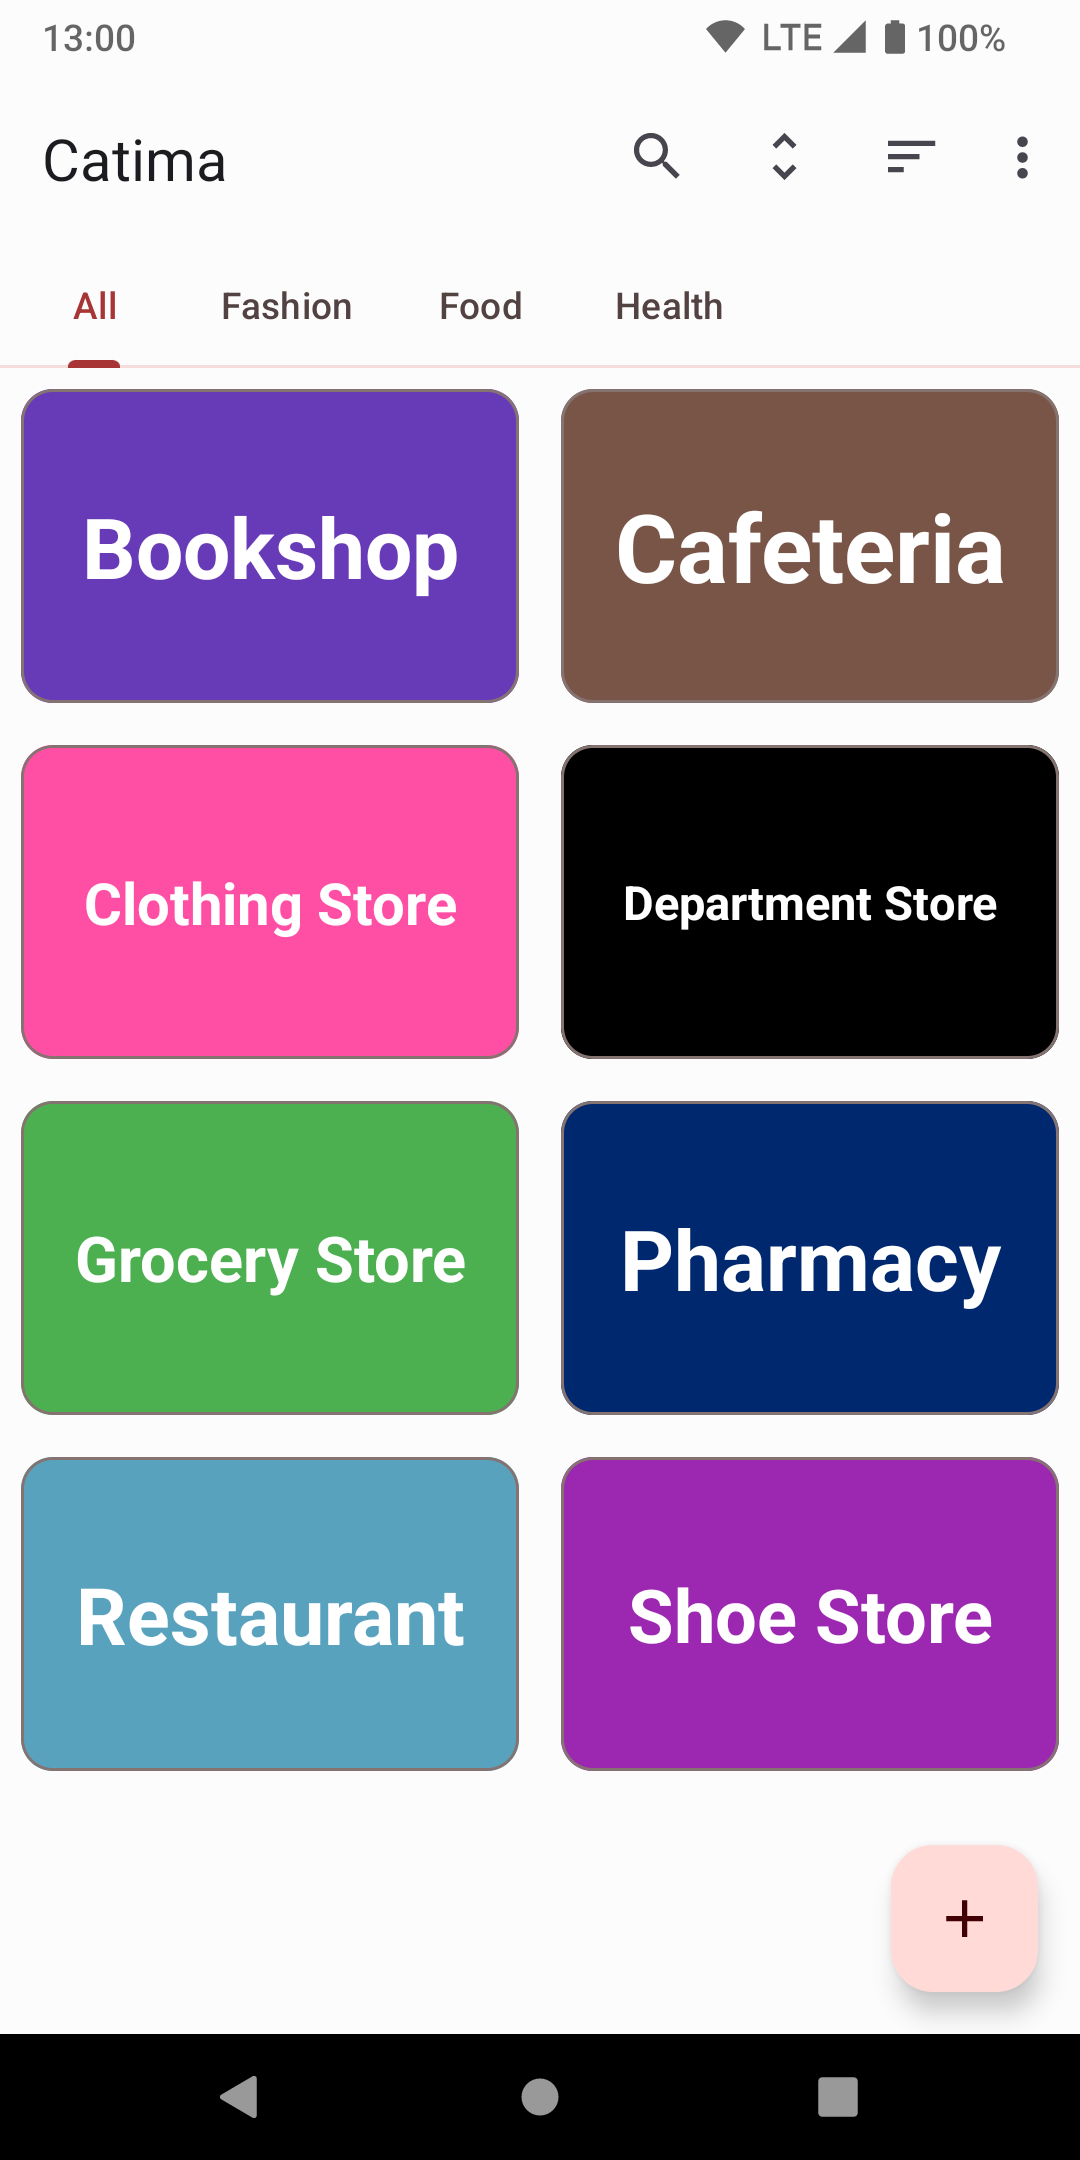
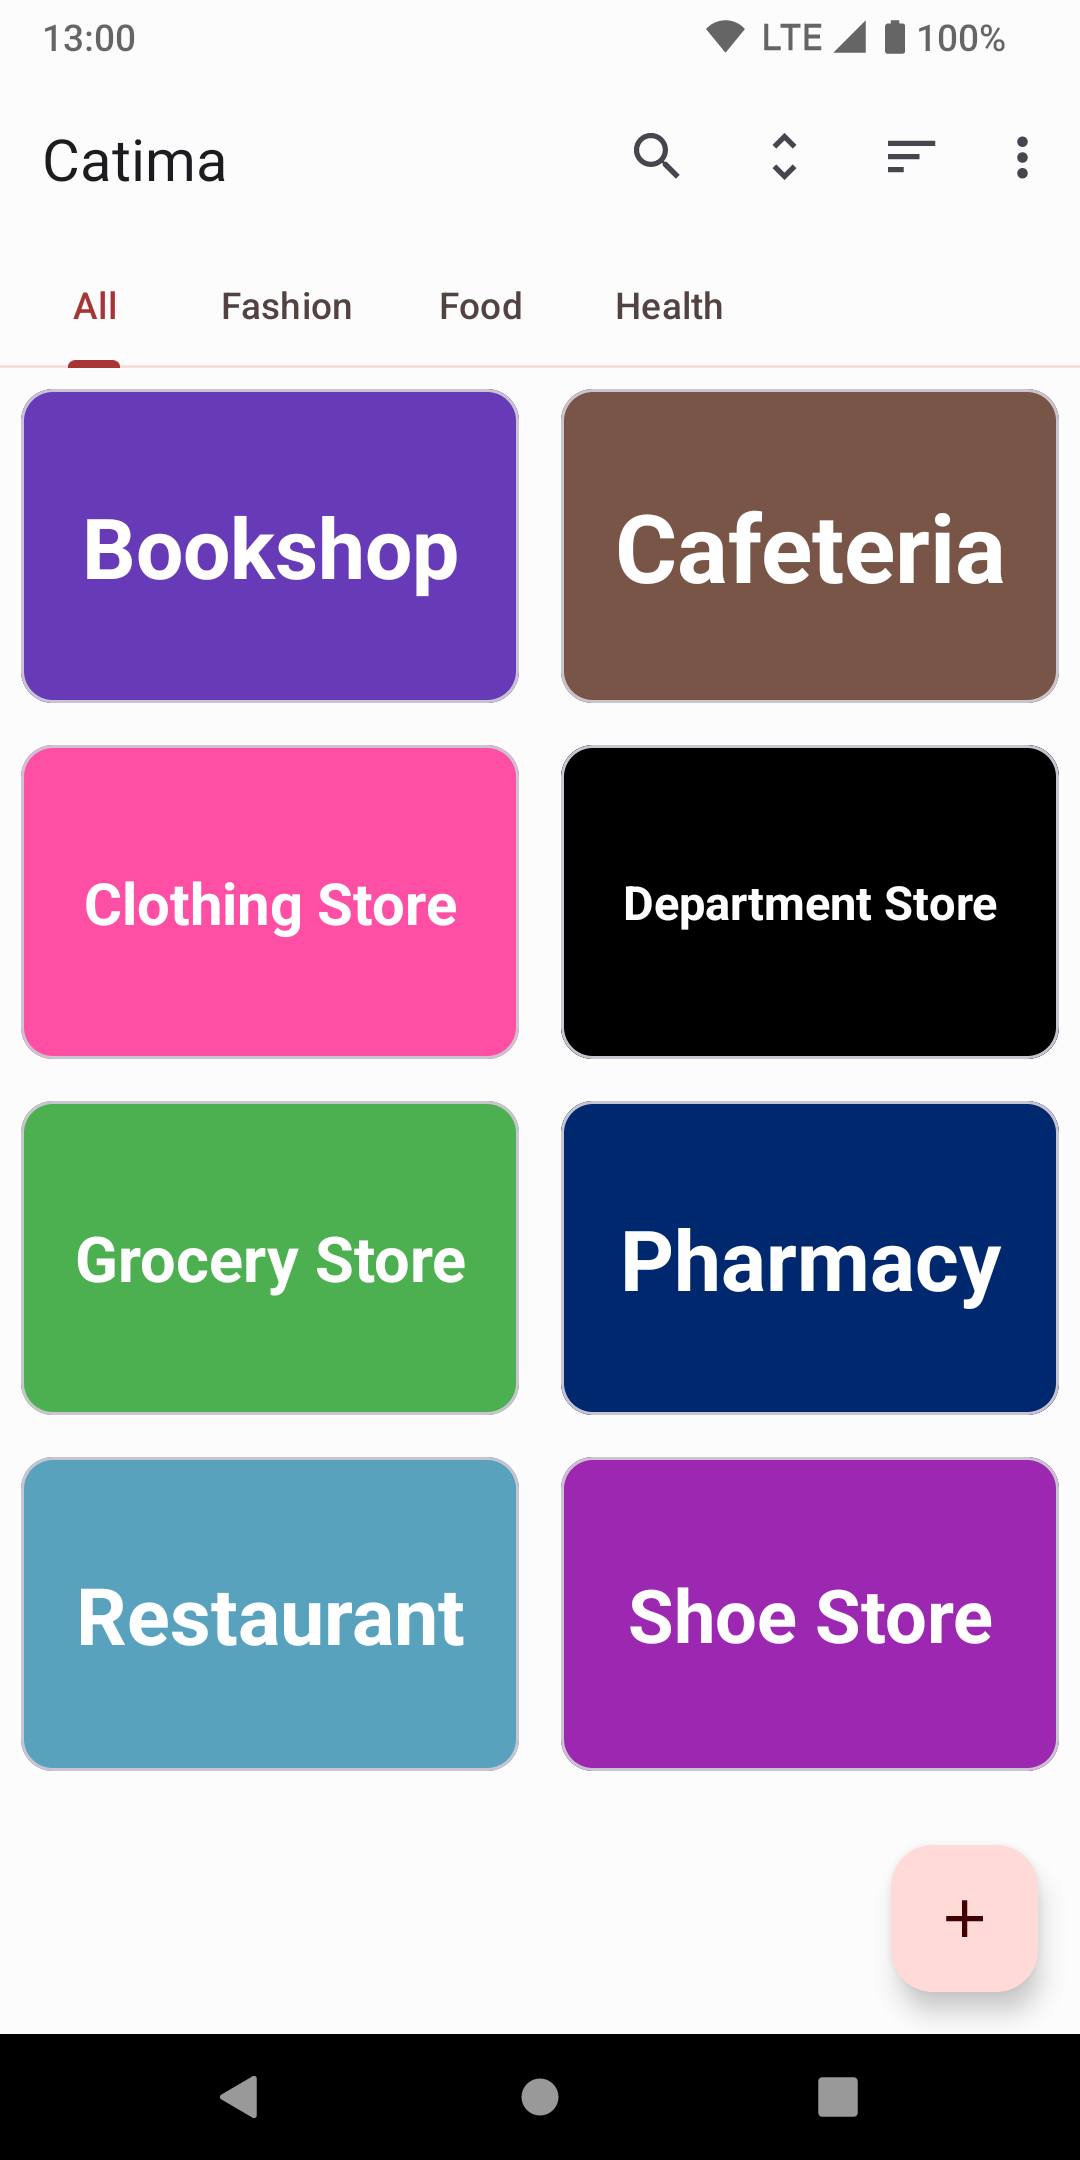
Update libraries
It seems Material 1.9.0 slightly changes some paddings, so created new
screenshots

diff --git a/CHANGELOG.md b/CHANGELOG.md
@@ -1,5 +1,9 @@
 # Changelog
 
+## Unreleased - 121
+
+- Update used libraries
+
 ## v2.23.0 - 120
 
 - Complete redesign of main and loyalty card view screens
